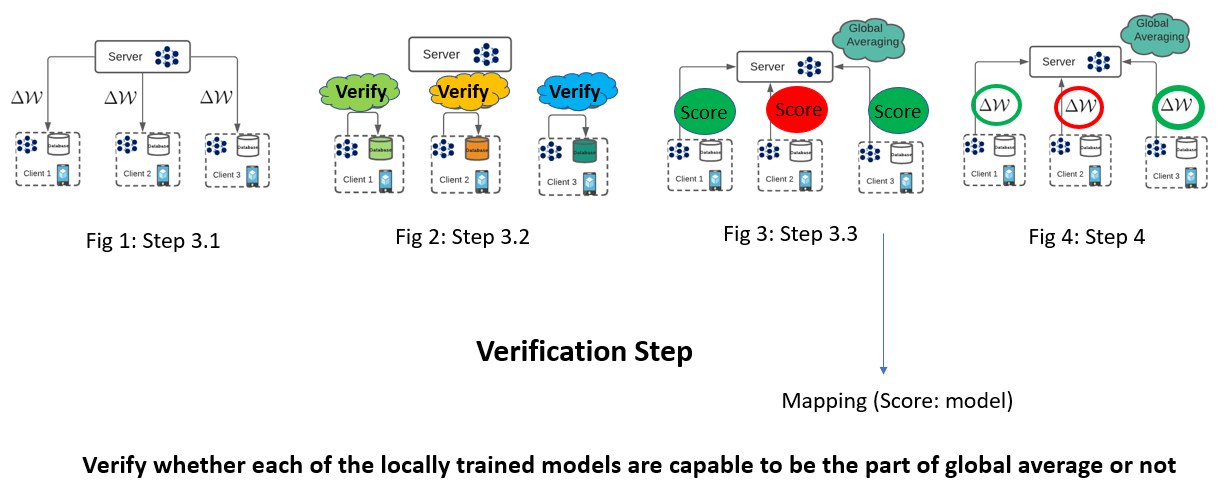
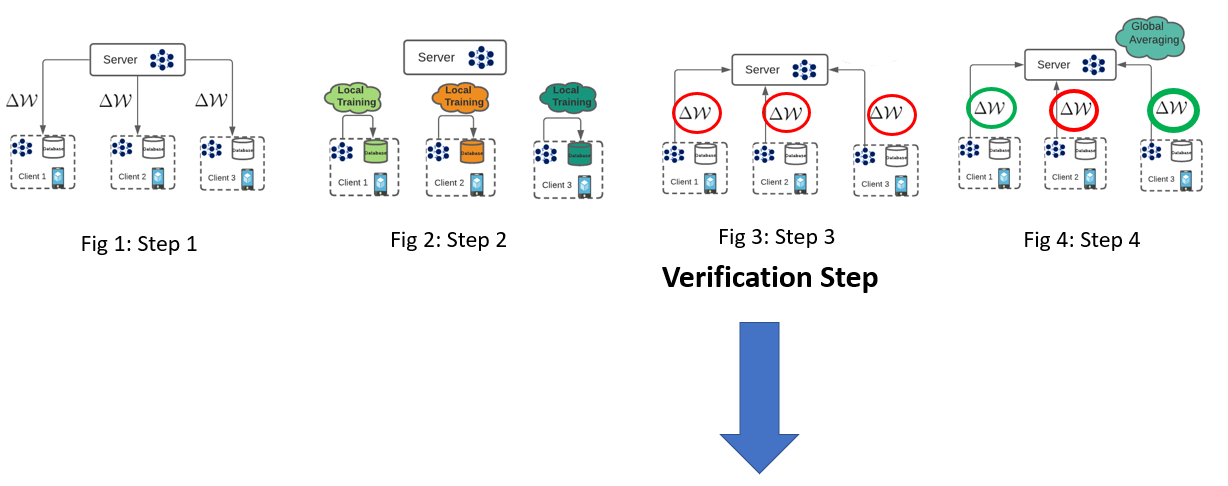
Update docs

diff --git a/docs/source/overview.rst b/docs/source/overview.rst
@@ -95,11 +95,14 @@ Steps in the Verification module
 Modified Federated Learning architecture
 ~~~~~~~~~~~~~~~~~~~~~~~~~~~~~~~~~~~~~~~~
 
-.. image:: ../imgs/verification.png
-   :align: center
-
 .. image:: ../imgs/verification1.png
    :align: center
+
+.. image:: ../imgs/verification2.png
+   :align: center
+
+|
+|
 
 Phase 3: Timeout module
 -----------------------
